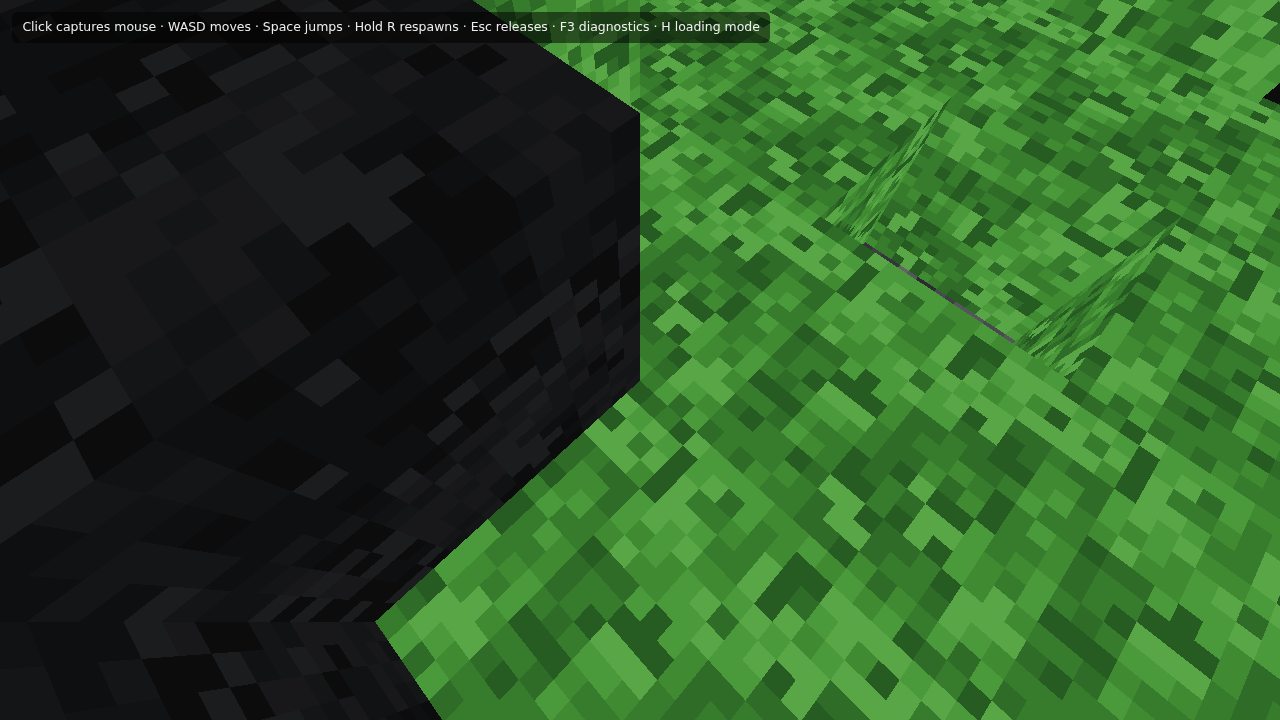
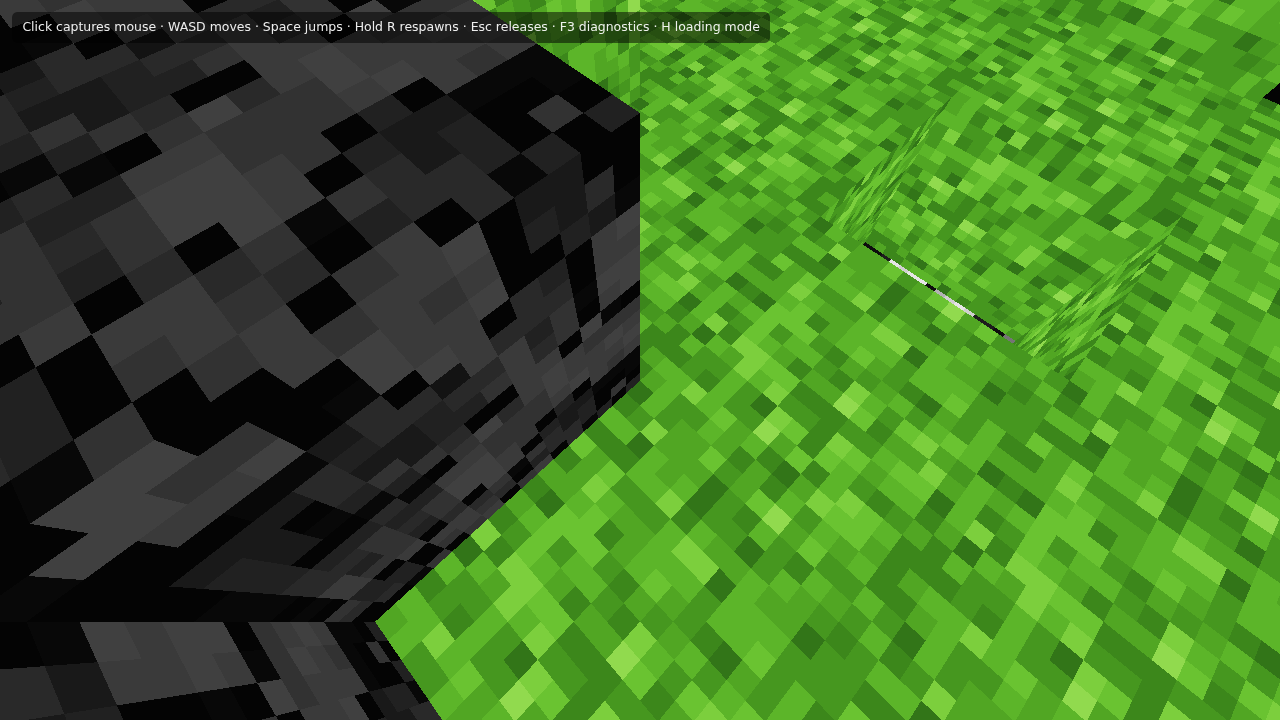
Fix Cave Game grass and stone textures
Replace the generic procedural block colors with original from-scratch 16×16 approximations guided by surviving Cave Game and RubyDung screenshots: bright fine-grained lime grass and pale irregular cobbled stone with near-black joints. Retain all-face material use, nearest-neighbor sampling, atlas gutters, deterministic generation, and the complete Phase 12 fidelity scope. Regenerate the final browser screenshots and pass the full clean build, 77 browser tests, audit, benchmark, Chromium smoke, and screenshot capture.

diff --git a/KNOWN_DEVIATIONS.md b/KNOWN_DEVIATIONS.md
@@ -25,7 +25,8 @@ The original `Cave game tech test` build was never publicly released. This proje
 
 ## Rendering
 
-- The original textures are not redistributed. Grass and rock use original deterministic 16×16 project-created textures.
+- The unreleased build's exact texture files are not bundled. Grass and stone use original deterministic 16×16 recreations based on surviving Cave Game and RubyDung screenshots rather than copied Mojang pixel data.
+- The grass recreation uses bright lime-green fine pixel flecks. The stone recreation follows the visible early RubyDung character: pale irregular cobbles separated by near-black joints. Their layouts are deliberately original and are not pixel-identical to Minecraft's assets.
 - Texture-atlas gutters, nearest-neighbor sampling, and disabled mipmaps are implementation safeguards for crisp browser rendering.
 - The exact historical brightness multipliers and fog curve are unknown. The recreation uses full BRIGHT texture color, fixed `0.28` DARK brightness, and five-step black fog from 4 to 30 blocks.
 - Chunk frustum culling and retained GPU meshes are performance implementation details. They do not change the finite world or the proximity order in which unfinished chunks are processed.
